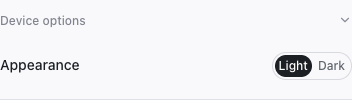
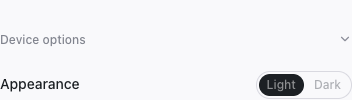
fix: unify device option pill spacing

diff --git a/packages/@expo/hub-components/src/dashboard/DeviceOptionsSection.tsx b/packages/@expo/hub-components/src/dashboard/DeviceOptionsSection.tsx
@@ -105,7 +105,6 @@ export function DeviceOptionsSection({ client }: { client?: DeviceClient }) {
         <SidebarRow compact label="Appearance" borderBottom={hasFollowingRow('appearance')}>
           <SegmentedControl
             ariaLabel="Appearance"
-            compact
             options={pillOptions('appearance', APPEARANCE_OPTIONS)}
             value={value('appearance') as (typeof APPEARANCE_OPTIONS)[number]['value']}
             onChange={(nextValue) => setValue('appearance', nextValue)}
@@ -117,7 +116,6 @@ export function DeviceOptionsSection({ client }: { client?: DeviceClient }) {
         <SidebarRow compact label="Liquid glass" borderBottom={hasFollowingRow('liquid-glass')}>
           <SegmentedControl
             ariaLabel="Liquid glass"
-            compact
             options={pillOptions('liquid-glass', LIQUID_GLASS_OPTIONS)}
             value={value('liquid-glass') as (typeof LIQUID_GLASS_OPTIONS)[number]['value']}
             onChange={(nextValue) => setValue('liquid-glass', nextValue)}
@@ -129,7 +127,6 @@ export function DeviceOptionsSection({ client }: { client?: DeviceClient }) {
         <SidebarRow compact label="Color filter" borderBottom={hasFollowingRow('color-filter')}>
           <SegmentedControl
             ariaLabel="Color filter"
-            compact
             options={pillOptions('color-filter', COLOR_FILTER_OPTIONS)}
             value={value('color-filter') as (typeof COLOR_FILTER_OPTIONS)[number]['value']}
             onChange={(nextValue) => setValue('color-filter', nextValue)}
@@ -141,7 +138,6 @@ export function DeviceOptionsSection({ client }: { client?: DeviceClient }) {
         <SidebarRow compact label="Text size" borderBottom={hasFollowingRow('text-size')}>
           <SegmentedControl
             ariaLabel="Text size"
-            compact
             options={pillOptions('text-size', TEXT_SIZE_OPTIONS)}
             value={value('text-size') as (typeof TEXT_SIZE_OPTIONS)[number]['value']}
             onChange={(nextValue) => setValue('text-size', nextValue)}

diff --git a/packages/expo-device-hub/src/dashboard/__tests__/inspectorSections.test.tsx b/packages/expo-device-hub/src/dashboard/__tests__/inspectorSections.test.tsx
@@ -148,13 +148,23 @@ test('omits unsupported Android activity, stream, and iOS-only options', () => {
   expect(html.match(/aria-expanded="false"/g)?.length).toBe(2);
 });
 
-test('renders device option pills beside their titles in one compact row', () => {
+test('uses the shared stream-pill spacing for every device option', () => {
   const html = renderToStaticMarkup(<LogSidebar client={inspectorClient('ios')} />);
 
-  for (const label of ['Appearance', 'Liquid glass', 'Color filter', 'Text size']) {
-    expect(rowOpeningTag(html, label)).toContain('height:51px');
+  for (const [label, optionCount] of [
+    ['Appearance', 2],
+    ['Liquid glass', 2],
+    ['Color filter', 5],
+    ['Text size', 7],
+  ] as const) {
+    const control = segmentedControlMarkup(html, label);
+
+    expect(rowOpeningTag(html, label)).toContain('flex-wrap:wrap');
+    expect(rowOpeningTag(html, label)).toContain('min-height:51px');
     expect(rowOpeningTag(html, label)).toContain('gap:12px');
-    expect(segmentedControlMarkup(html, label)).toContain('padding:0 4px');
+    expect(control.match(/padding:0 8px/g)).toHaveLength(optionCount);
+    expect(control.match(/aria-pressed="true"/g)).toHaveLength(1);
+    expect(control.match(/aria-pressed="false"/g)).toHaveLength(optionCount - 1);
     expect(html).toMatch(
       new RegExp(
         `<span style="[^"]*">${label}</span><div role="group" aria-label="${label}"`,

diff --git a/packages/@expo/hub-components/src/components/SegmentedControl.tsx b/packages/@expo/hub-components/src/components/SegmentedControl.tsx
@@ -21,15 +21,12 @@ export type SegmentedControlOption<Value extends string> = {
 export function SegmentedControl<Value extends string>({
   ariaLabel,
   ariaDescribedBy,
-  compact = false,
   options,
   value,
   onChange,
 }: {
   ariaLabel: string;
   ariaDescribedBy?: string;
-  /** Reduce horizontal padding for dense sidebar rows at the minimum panel width. */
-  compact?: boolean;
   options: ReadonlyArray<SegmentedControlOption<Value>>;
   value: Value;
   onChange: (value: Value) => void;
@@ -80,6 +77,7 @@ export function SegmentedControl<Value extends string>({
         display: 'flex',
         position: 'relative',
         flexShrink: 0,
+        marginLeft: 'auto',
         gap: CONTROL_SPACING,
         height: CONTROL_HEIGHT,
         padding: CONTROL_SPACING,
@@ -125,7 +123,7 @@ export function SegmentedControl<Value extends string>({
               height: OPTION_HEIGHT,
               flexShrink: 0,
               boxSizing: 'border-box',
-              padding: `0 ${compact ? 4 : OPTION_HORIZONTAL_PADDING}px`,
+              padding: `0 ${OPTION_HORIZONTAL_PADDING}px`,
               border: 0,
               borderRadius: radius.full,
               backgroundColor: 'transparent',

diff --git a/packages/@expo/hub-components/src/dashboard/SidebarRow.tsx b/packages/@expo/hub-components/src/dashboard/SidebarRow.tsx
@@ -26,9 +26,11 @@ export function SidebarRow({
     <div
       style={{
         display: "flex",
+        flexWrap: compact ? "wrap" : undefined,
         alignItems: "center",
         gap: compact ? 12 : 16,
-        height: 51,
+        height: compact ? undefined : 51,
+        minHeight: compact ? 51 : undefined,
         boxSizing: "border-box",
         padding: "11px 0",
         borderBottom: borderBottom ? `1px solid ${border.secondary}` : undefined,
